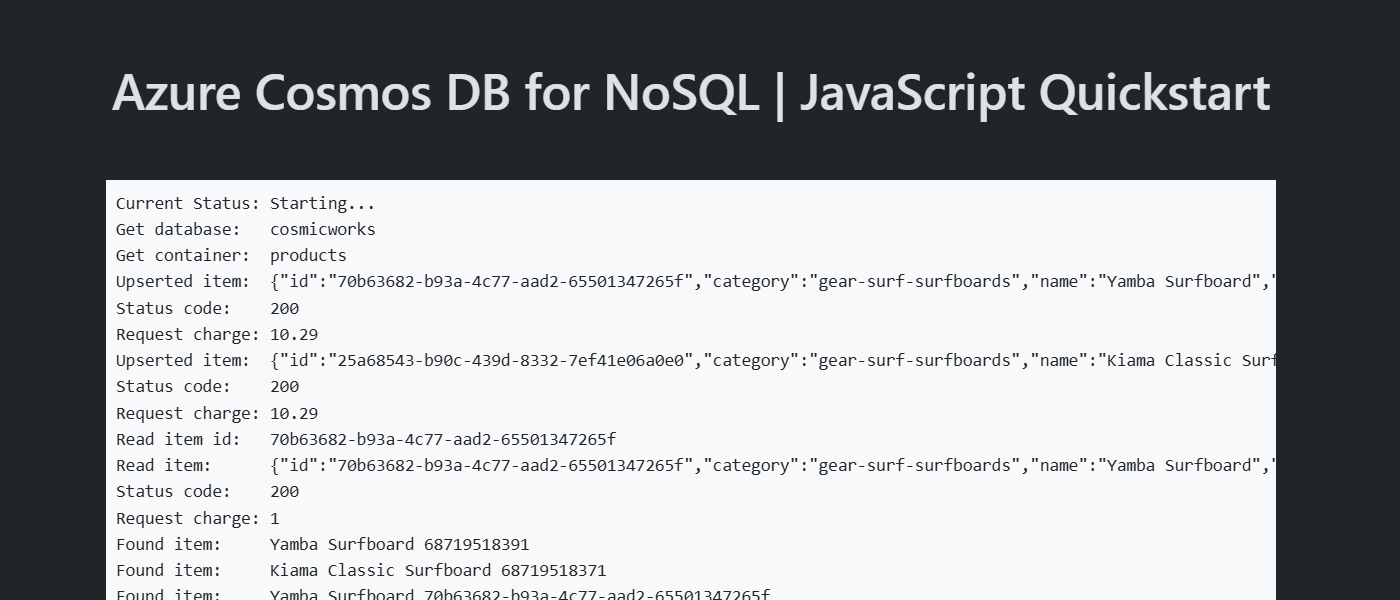
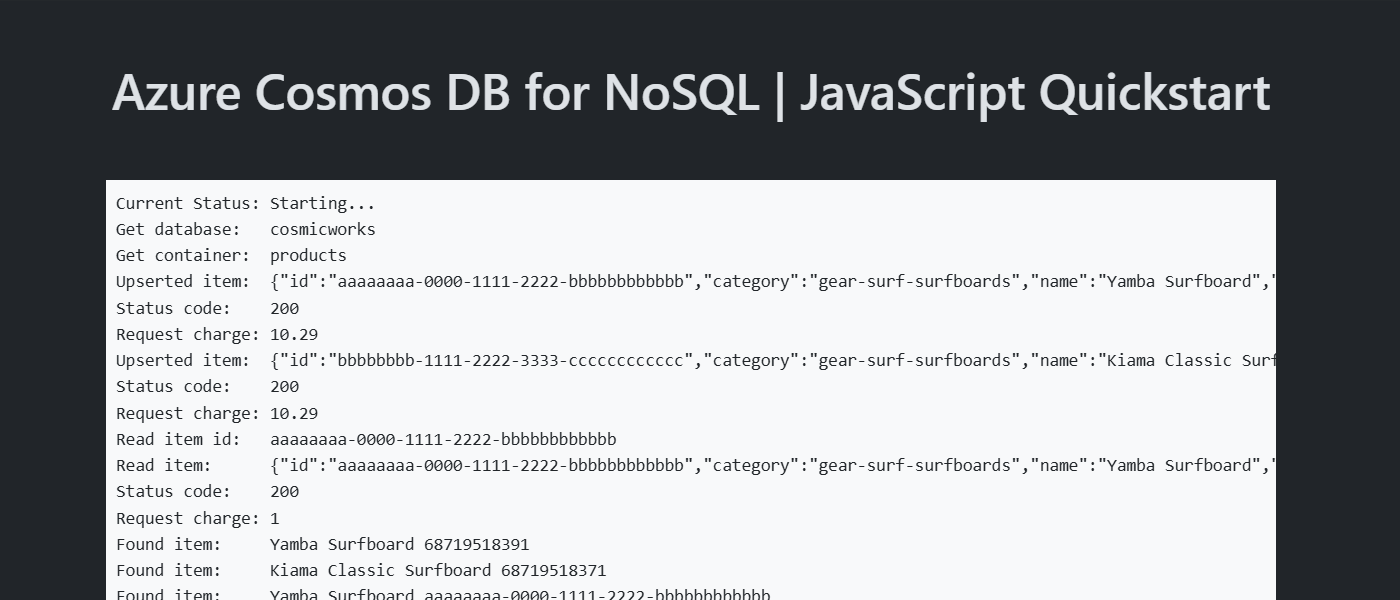
Update GUIDs

diff --git a/src/ts/cosmos.ts b/src/ts/cosmos.ts
@@ -55,7 +55,7 @@ export class DataClient {
 
     async createItemVerbose(emit: Emit, container: Container) {
         var item: Product = {
-            'id': '70b63682-b93a-4c77-aad2-65501347265f',
+            'id': 'aaaaaaaa-0000-1111-2222-bbbbbbbbbbbb',
             'category': 'gear-surf-surfboards',
             'name': 'Yamba Surfboard',
             'quantity': 12,
@@ -74,7 +74,7 @@ export class DataClient {
 
     async createItemConcise(emit: Emit, container: Container) {
         var item: Product = {
-            'id': '25a68543-b90c-439d-8332-7ef41e06a0e0',
+            'id': 'bbbbbbbb-1111-2222-3333-cccccccccccc',
             'category': 'gear-surf-surfboards',
             'name': 'Kiama Classic Surfboard',
             'quantity': 25,
@@ -87,7 +87,7 @@ export class DataClient {
     }
 
     async readItem(emit: Emit, container: Container) {
-        var id = '70b63682-b93a-4c77-aad2-65501347265f';
+        var id = 'aaaaaaaa-0000-1111-2222-bbbbbbbbbbbb';
         var partitionKey = 'gear-surf-surfboards';
 
         var response: ItemResponse<Product> = await container.item(id, partitionKey).read<Product>();
@@ -111,10 +111,6 @@ export class DataClient {
         };
 
         var response: FeedResponse<Product> = await container.items.query<Product>(querySpec).fetchAll();
-        for (var item of response.resources) {
-
-        }
-
         for (var item of response.resources) {
             emit(`Found item:\t${item.name}\t${item.id}`);
         }

diff --git a/src/js/cosmos.js b/src/js/cosmos.js
@@ -27,7 +27,7 @@ export async function start(emit) {
 
     {
         var item = {
-            'id': '70b63682-b93a-4c77-aad2-65501347265f',
+            'id': 'aaaaaaaa-0000-1111-2222-bbbbbbbbbbbb',
             'category': 'gear-surf-surfboards',
             'name': 'Yamba Surfboard',
             'quantity': 12,
@@ -46,7 +46,7 @@ export async function start(emit) {
 
     {
         var item = {
-            'id': '25a68543-b90c-439d-8332-7ef41e06a0e0',
+            'id': 'bbbbbbbb-1111-2222-3333-cccccccccccc',
             'category': 'gear-surf-surfboards',
             'name': 'Kiama Classic Surfboard',
             'quantity': 25,
@@ -61,7 +61,7 @@ export async function start(emit) {
     }
 
     {
-        var id = '70b63682-b93a-4c77-aad2-65501347265f';
+        var id = 'aaaaaaaa-0000-1111-2222-bbbbbbbbbbbb';
         var partitionKey = 'gear-surf-surfboards';
 
         var response = await container.item(id, partitionKey).read();
@@ -85,10 +85,6 @@ export async function start(emit) {
         };
         
         var response = await container.items.query(querySpec).fetchAll();
-        for (var item of response.resources) {
-
-        }
-
         for (var item of response.resources) {
             emit(`Found item:\t${item.name}\t${item.id}`);
         }
